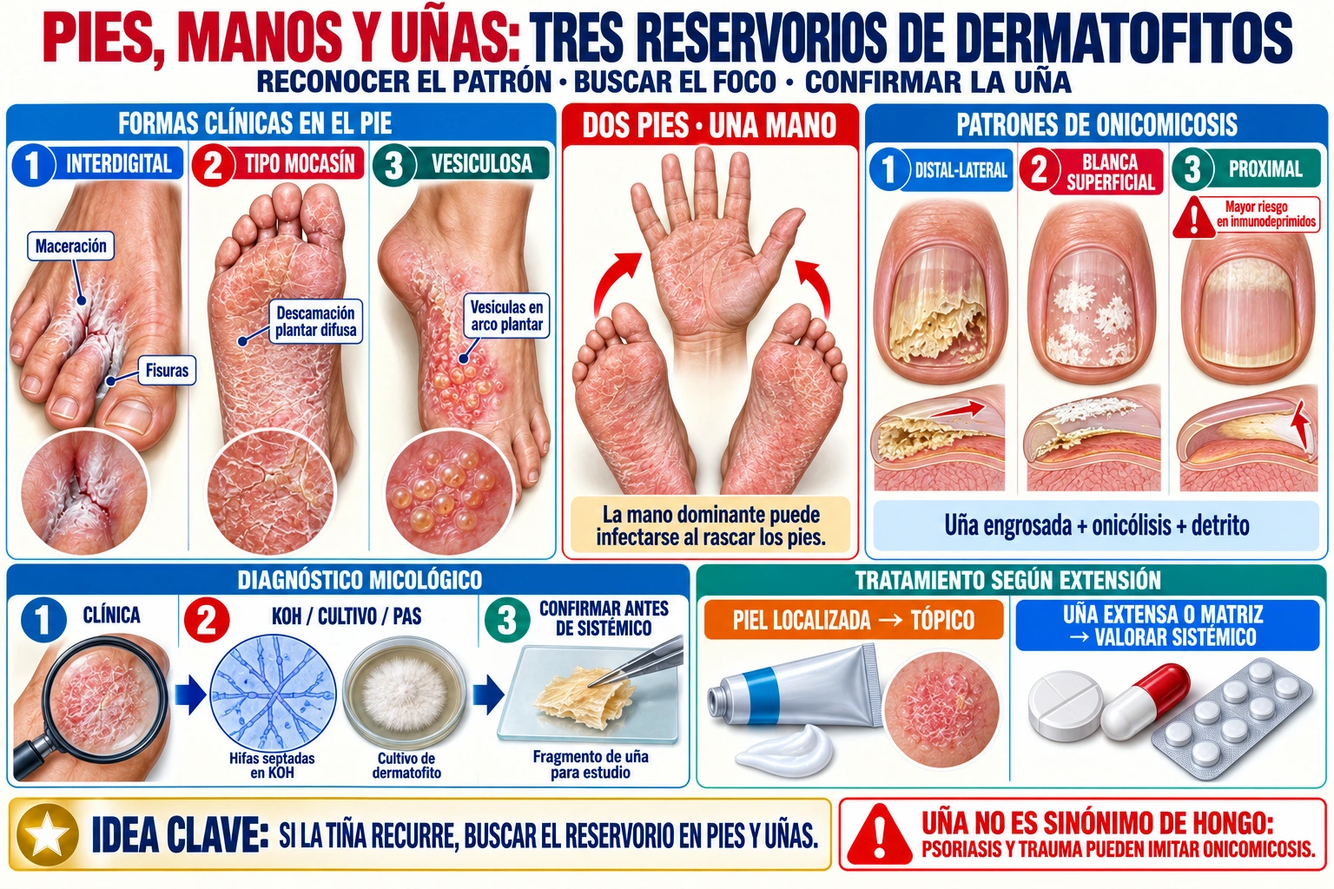
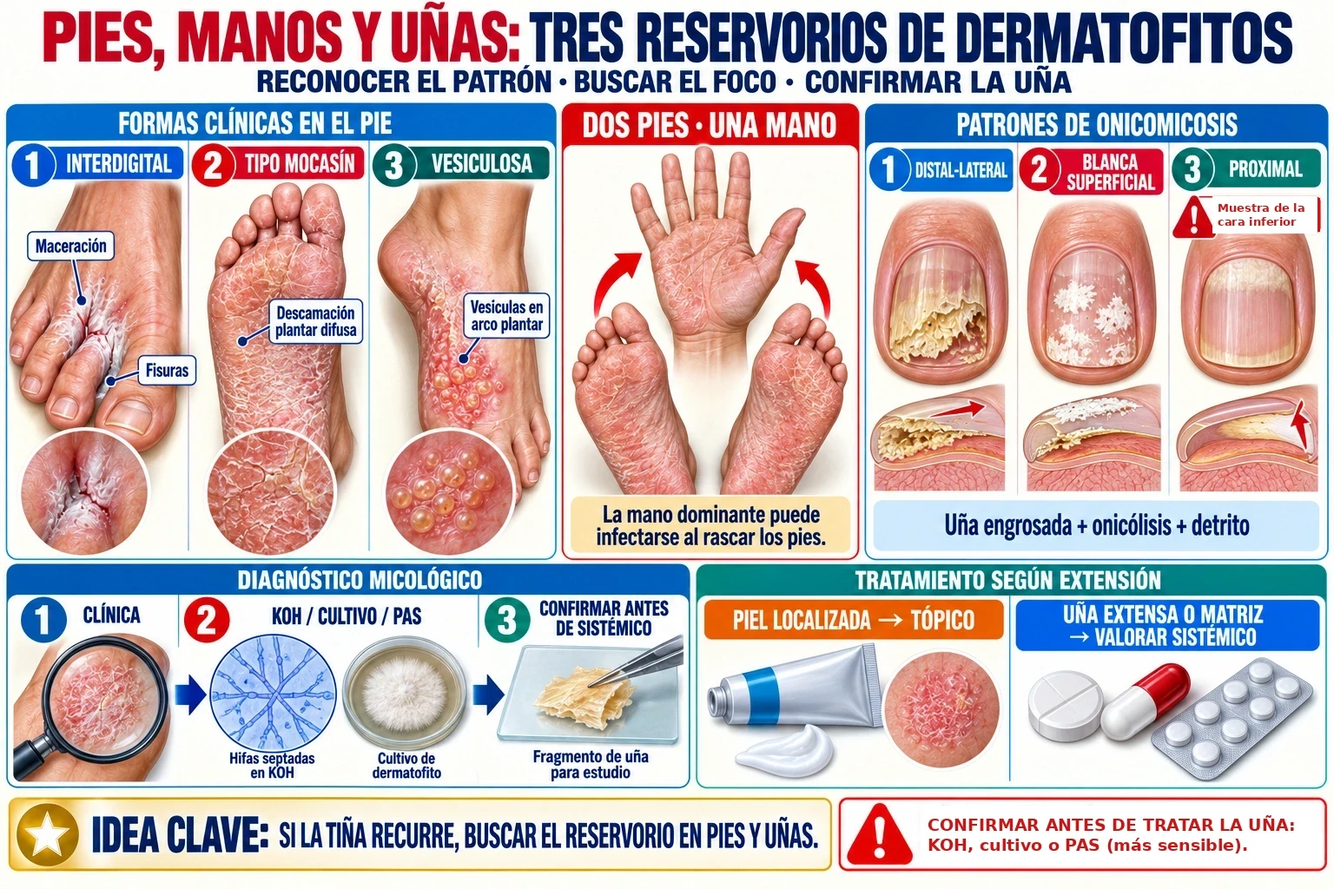
Dermatología: figuras 18, 19 e 01-09 só com conteúdo útil e com fonte; abertura sem ordem de estudo
Imagem 19 sem texto de disponibilidade de fonte; imagem 18: dois recuadros sem fonte trocados por
conteúdo do Atlas (amostra proximal; confirmar com KOH/cultivo/PAS); 01-09: Wood verdosa e
amarillo-anaranjado; legendas neutras; «Hebra» retirado; abertura e caixas «Puntos a dominar» sem
orientação de estudo.

Claude-Session: https://claude.ai/code/session_01DevSfM7zdgXiapR5wFfV6N

diff --git a/Repasso-Med-Site--main/Atual - Copia/netlify/functions/materias-privadas/dermatologia.html b/Repasso-Med-Site--main/Atual - Copia/netlify/functions/materias-privadas/dermatologia.html
@@ -59,27 +59,26 @@
      <b>una capa determinada a una altura determinada</b>, y esa rotura es lo que después se ve
      como una lesión: una mácula, una pápula, una ampolla. Si uno sabe qué capa está afectada,
      sabe qué lesión esperar; y si sabe leer la lesión, recorre el camino al revés y dice qué capa
-     se rompió. Por eso la anatomía va primero: no es un trámite, es <b>la clave de lectura</b> de
+     se rompió. Por eso la anatomía es <b>la clave de lectura</b> de
      todo lo que viene después.</p>
 </div>
 
 
 <div class="rmc-detalle">
-<h3>1 · Por qué esta materia se aprende al revés</h3>
+<h3>1 · La piel se lee: de la lesión al diagnóstico</h3>
 
 <p>La <b>dermatología</b> estudia la estructura y la función de la <b>piel, el cabello, las uñas y
 las mucosas</b>, y las enfermedades que las afectan. Lo que la vuelve distinta de todas las demás
 especialidades es una sola cosa: <b>el órgano enfermo está a la vista</b>.</p>
 
-<p>No hay que imaginarse el hígado a partir de una transaminasa. El órgano está ahí, iluminado, y se puede tocar: la piel no se ausculta, <b>se lee</b>, y lo que se lee no son enfermedades sino lesiones. Eso cambia el orden en que conviene estudiar, y hay una frase clásica que lo dice
-mejor que cualquier explicación:</p>
+<p>No hay que imaginarse el hígado a partir de una transaminasa. El órgano está ahí, iluminado, y se puede tocar: la piel no se ausculta, <b>se lee</b>, y lo que se lee no son enfermedades sino lesiones. De ahí una frase clásica que lo resume:</p>
 
 <blockquote><p><i>«Quien estudie las enfermedades de la piel y no estudie primero la lesión nunca
 aprenderá dermatología.»</i> — Hermann Werner Siemens (1891-1969)</p></blockquote>
 
 <p>Se describen unas <b>cuatro mil</b> enfermedades de la piel. Se describen con apenas
 <b>treinta</b> <span class="rmc-gl" onclick="var o=this.classList.contains('on');document.querySelectorAll('#tab-derma .rmc-gl.on').forEach(function(e){e.classList.remove('on')});if(!o)this.classList.add('on')">lesiones elementales<b>?</b><i onclick="event.stopPropagation()"><b>Lesión elemental</b>La unidad mínima con la que se describe cualquier enfermedad de la piel. Es al diagnóstico dermatológico lo que la letra es a la palabra: <b>no se puede leer sin conocerla</b>.<span class="rmc-gl-close">tocá la palabra para cerrar</span></i></span>.
-Por eso la inversión rinde tanto: quien domina treinta palabras puede describir cualquier cuadro
+Por eso describir bien la lesión rinde tanto: quien domina treinta palabras puede describir cualquier cuadro
 —incluso uno que nunca vio— y llegar solo a una lista corta de diagnósticos.</p>
 </div><!-- /rmc-detalle -->
 
@@ -291,7 +290,7 @@ y el nervio haga sudar las manos.</p>
 
 <div class="rmc-exam">
 <h4>Puntos a dominar de este bloque</h4>
-<p>Orden basado en el contenido desarrollado por la cátedra en la Unidad I y en el peso que cada tema tiene en la bibliografía de referencia.</p>
+<p>Los puntos que sostienen el bloque.</p>
 <div class="rmc-freq"><span>Los <b>cinco estratos</b> y qué contiene cada uno</span><span class="rmc-bar"><i style="width:100%"></i></span></div>
 <div class="rmc-freq"><span>Las <b>cuatro células</b>: proporción, capa y origen embrionario</span><span class="rmc-bar"><i style="width:96%"></i></span></div>
 <div class="rmc-freq"><span>Las <b>tres glándulas</b>: secreción, control y desembocadura</span><span class="rmc-bar"><i style="width:84%"></i></span></div>
@@ -445,7 +444,7 @@ y el nervio haga sudar las manos.</p>
 <p>30 tarjetas. Tocá cualquiera para abrir el modo juego.</p>
 <div class="fc-grid">
 <div class="flashcard"><div class="fc-front"><b>Dermatología</b></div><div class="fc-back">Especialidad que estudia la <b>estructura y función</b> de piel, cabellos, uñas y mucosas, y las enfermedades que las afectan, con su <b>prevención, diagnóstico y tratamiento</b>.</div></div>
-<div class="flashcard"><div class="fc-front"><b>La frase de Siemens</b></div><div class="fc-back">«Quien estudie las enfermedades de la piel y <b>no estudie primero la lesión</b> nunca aprenderá dermatología». Es el orden de estudio de toda la materia.</div></div>
+<div class="flashcard"><div class="fc-front"><b>La frase de Siemens</b></div><div class="fc-back">«Quien estudie las enfermedades de la piel y <b>no estudie primero la lesión</b> nunca aprenderá dermatología».</div></div>
 <div class="flashcard"><div class="fc-front"><b>La piel en números</b></div><div class="fc-back"><b>15 %</b> del peso corporal · <b>1,8 m²</b> de superficie · <b>3</b> capas independientes. Es el órgano más extenso del cuerpo.</div></div>
 <div class="flashcard"><div class="fc-front"><b>Las 5 funciones de la piel</b></div><div class="fc-back"><b>Protección</b> frente a agresiones externas · <b>Termorregulación</b> · <b>Impermeabilización</b> · producción de <b>vitamina D</b> · detección de <b>estímulos sensoriales</b>.</div></div>
 <div class="flashcard"><div class="fc-front"><b>Las 3 capas y su origen</b></div><div class="fc-back"><b>Epidermis</b> = ectodermo, avascular · <b>Dermis</b> = mesodermo, vascularizada · <b>Hipodermis</b> = tejido graso en lóbulos.</div></div>
@@ -898,7 +897,7 @@ segundo tiempo del raspado: cambia la transliteración del apellido, no el halla
 
 <div class="rmc-exam">
 <h4>Puntos a dominar de este bloque</h4>
-<p>Orden basado en el contenido desarrollado por la cátedra en la Unidad I y en el peso que cada tema tiene en la bibliografía de referencia.</p>
+<p>Los puntos que sostienen el bloque.</p>
 <div class="rmc-freq"><span>Las <b>lesiones primarias</b>: tamaño, topografía y contenido</span><span class="rmc-bar"><i style="width:100%"></i></span></div>
 <div class="rmc-freq"><span>Diferenciar <b>erosión y úlcera</b>, y <b>pápula, placa y nódulo</b></span><span class="rmc-bar"><i style="width:94%"></i></span></div>
 <div class="rmc-freq"><span>Las <b>lesiones secundarias</b> y qué deja cicatriz</span><span class="rmc-bar"><i style="width:86%"></i></span></div>
@@ -1278,7 +1277,7 @@ consultorio</b>, no en el laboratorio. El material de la cátedra enumera <b>cua
 <p>Lo que ordena todo el grupo es una sola distinción: <b>qué orienta y qué confirma</b>.</p>
 </div><!-- /rmc-detalle -->
 
-<figure class="rmc-fig"><div class="rmc-zoom"><img class="rmc-photo" src="/assets/img/derma/bloco-01-09-recursos-diagnosticos.webp" alt="Infografía titulada «Recursos diagnósticos: qué aporta cada uno». Seis tarjetas. Lupa, que amplía superficie, escamas y galerías. Diascopia, presión con vidrio, donde blanquear significa eritema y no blanquear significa púrpura, con dos fotos comparativas. Luz de Wood, ultravioleta A de onda larga, con los colores de fluorescencia: dermatofitosis del pelo con fluorescencia verde o amarillenta en la base del cabello, eritrasma rojo coral, pitiriasis versicolor amarillo-anaranjado y vitíligo blanco azulado intenso, más la advertencia de que no todas las tiñas fluorescen. Dermatoscopia, no invasiva, que muestra estructuras pigmentadas y vasculares y mejora la evaluación del melanoma. Raspado más hidróxido de potasio, que muestra hifas o levaduras y apoya el diagnóstico de micosis. Y biopsia con histopatología, que confirma neoplasias cutáneas y define profundidad y patrón. Una franja inferior separa los métodos que orientan de la biopsia, que confirma malignidad. Cierra una banda con la clave: la dermatoscopia orienta y la histología confirma el cáncer cutáneo." loading="lazy" decoding="async" width="1536" height="1024"></div><p class="rmc-hint">🔍 tocá la figura y ampliá con dos dedos para leer los rótulos</p><figcaption><b>Cómo leer la figura:</b> la franja de abajo es la que ordena todo: cinco métodos <b>orientan</b> y uno solo <b>confirma</b>. Las dos tarjetas de la derecha —raspado con KOH y biopsia— son un agregado de la literatura: no están en la lista de la cátedra, que enumera cuatro recursos, pero son las que se usan de verdad. Y leé la letra chica de la luz de Wood: <b>no todas las tiñas fluorescen</b>, así que un Wood negativo no descarta una micosis. <em>Sobre los colores:</em> el slide de la cátedra describe la fluorescencia de la pitiriasis versicolor como amarillo-anaranjada (la figura dice «amarillo cobrizo»), y el Atlas describe fluorescencia verdosa en los cabellos con <em>Microsporum</em> y rojo coral en el eritrasma; en el texto se usan los términos del slide y del Atlas.</figcaption></figure>
+<figure class="rmc-fig"><div class="rmc-zoom"><img class="rmc-photo" src="/assets/img/derma/bloco-01-09-recursos-diagnosticos.webp" alt="Infografía titulada «Recursos diagnósticos: qué aporta cada uno». Seis tarjetas. Lupa, que amplía superficie, escamas y galerías. Diascopia, presión con vidrio, donde blanquear significa eritema y no blanquear significa púrpura, con dos fotos comparativas. Luz de Wood, ultravioleta A de onda larga, con los colores de fluorescencia: dermatofitosis del pelo con fluorescencia verde o amarillenta en la base del cabello, eritrasma rojo coral, pitiriasis versicolor amarillo-anaranjado y vitíligo blanco azulado intenso, más la advertencia de que no todas las tiñas fluorescen. Dermatoscopia, no invasiva, que muestra estructuras pigmentadas y vasculares y mejora la evaluación del melanoma. Raspado más hidróxido de potasio, que muestra hifas o levaduras y apoya el diagnóstico de micosis. Y biopsia con histopatología, que confirma neoplasias cutáneas y define profundidad y patrón. Una franja inferior separa los métodos que orientan de la biopsia, que confirma malignidad. Cierra una banda con la clave: la dermatoscopia orienta y la histología confirma el cáncer cutáneo." loading="lazy" decoding="async" width="1536" height="1024"></div><p class="rmc-hint">🔍 tocá la figura y ampliá con dos dedos para leer los rótulos</p><figcaption><b>Cómo leer la figura:</b> la franja de abajo es la que ordena todo: cinco métodos <b>orientan</b> y uno solo <b>confirma</b>. Las dos tarjetas de la derecha completan el panorama: el raspado con KOH muestra hifas o levaduras y apoya el diagnóstico de una micosis, y la biopsia con histopatología confirma la malignidad. Y leé la letra chica de la luz de Wood: <b>no todas las tiñas fluorescen</b>, así que un Wood negativo no descarta una micosis. Los colores son verdosos en los cabellos con <em>Microsporum</em>, rojo coral en el eritrasma y amarillo-anaranjado en la pitiriasis versicolor.</figcaption></figure>
 
 <div class="rmc-detalle">
 <p>De los seis, el que tiene más detalle técnico es la <b>luz de Wood</b>, y conviene conocerla por dos lados: <b>de qué está hecho el aparato</b> y <b>qué color da cada cosa</b>.</p>
@@ -1465,7 +1464,7 @@ de luz</b>, <b>crioterapia y electrocirugía</b> y <b>radioterapia dermatológic
 
 <div class="rmc-exam">
 <h4>Puntos a dominar de este bloque</h4>
-<p>Orden basado en el contenido desarrollado por la cátedra en la Unidad I y en el peso que cada tema tiene en la bibliografía de referencia.</p>
+<p>Los puntos que sostienen el bloque.</p>
 <div class="rmc-freq"><span>El <b>vehículo</b> según el estado de la lesión y la zona</span><span class="rmc-bar"><i style="width:100%"></i></span></div>
 <div class="rmc-freq"><span><b>Luz de Wood</b>: el aparato, el filtro y los cuatro colores</span><span class="rmc-bar"><i style="width:92%"></i></span></div>
 <div class="rmc-freq"><span>Los <b>cuatro caminos</b> del tratamiento</span><span class="rmc-bar"><i style="width:84%"></i></span></div>
@@ -1969,8 +1968,7 @@ incluso sin el antecedente epidemiológico.
 
 <div class="rmc-exam">
 <h4>Puntos a dominar de este bloque</h4>
-<p>Orden basado en el contenido desarrollado por la cátedra en la
-Unidad II y en el peso que cada tema tiene en la bibliografía de referencia.</p>
+<p>Los puntos que sostienen el bloque.</p>
 <div class="rmc-freq"><span>El <b>surco acarino</b> y el prurito de predominio nocturno</span><span class="rmc-bar"><i style="width:100%"></i></span></div>
 <div class="rmc-freq"><span><b>Sarna costrosa</b>: poco prurito, altísimo contagio</span><span class="rmc-bar"><i style="width:92%"></i></span></div>
 <div class="rmc-freq"><span>Distribución del adulto <b>frente a</b> la del lactante</span><span class="rmc-bar"><i style="width:84%"></i></span></div>
@@ -2438,8 +2436,7 @@ el curso de la enfermedad más que muchos tratamientos.</p>
 
 <div class="rmc-exam">
 <h4>Puntos a dominar de este bloque</h4>
-<p>Orden basado en el contenido desarrollado por la cátedra en la
-Unidad II y en el peso que cada tema tiene en la bibliografía de referencia.</p>
+<p>Los puntos que sostienen el bloque.</p>
 <div class="rmc-freq"><span><b>Erisipela vs celulitis</b>: el borde y la profundidad</span><span class="rmc-bar"><i style="width:100%"></i></span></div>
 <div class="rmc-freq"><span><b>Costra melicérica</b> = impétigo no ampolloso</span><span class="rmc-bar"><i style="width:94%"></i></span></div>
 <div class="rmc-freq"><span><b>Ántrax vs carbunco</b>: la confusión de vocabulario</span><span class="rmc-bar"><i style="width:82%"></i></span></div>
@@ -2728,7 +2725,7 @@ porque cambia la piel donde caen.</p>
 <tr><th>Corporis</th><td>Tronco y miembros</td>
     <td><b>Herpes circinado</b>: anillo con borde activo y centro claro</td></tr>
 <tr><th>Cruris</th><td>Ingle y raíz del muslo (rara vez el escroto y el pene)</td>
-    <td><b>Eccema marginado de Hebra</b>: placa con borde activo y centro despejado</td></tr>
+    <td>Placa con <b>borde activo</b> y centro despejado</td></tr>
 <tr><th>Pedis</th><td>Pie</td>
     <td>Tres formas clásicas: <b>interdigital</b>, en <b>mocasín</b> y vesicular (la ulcerosa es una extensión de la interdigital)</td></tr>
 <tr><th>Manuum</th><td>Mano</td>
@@ -2744,7 +2741,7 @@ mucho — la infección suele empezar en los pies y se disemina a la mano.</p>
 
 <figure class="rmc-fig"><div class="rmc-zoom"><img class="rmc-photo" src="/assets/img/derma/17-tinas-localizacion.webp" alt="Infografía de las tiñas según su localización: tiña corporal, tiña de pliegues, tiña de la barba y tiña incógnita por corticoide, con el crecimiento hacia afuera del dermatofito, la toma de muestra del borde activo, el examen directo con KOH y el tratamiento según la extensión." loading="lazy" decoding="async"></div><figcaption>Recorré la figura buscando el <b>borde activo</b> en cada dibujo: está en todas. Lo que cambia es la piel donde cae, no el hongo.</figcaption></figure>
 
-<figure class="rmc-fig"><div class="rmc-zoom"><img class="rmc-photo" src="/assets/img/derma/18-pies-manos-unas-dermatofitos.webp" alt="Infografía de la tiña del pie en sus formas interdigital, en mocasín y vesiculoampollosa, el patrón dos pies una mano de la tiña manuum, y los patrones de onicomicosis con onicólisis e hiperqueratosis subungueal." loading="lazy" decoding="async"></div><figcaption>La forma <b>en mocasín</b> se confunde fácilmente con piel seca (o con psoriasis y dermatitis eccematosa): fijate en la descamación fina que cubre planta y bordes laterales, como un zapato.</figcaption></figure>
+<figure class="rmc-fig"><div class="rmc-zoom"><img class="rmc-photo" src="/assets/img/derma/18-pies-manos-unas-dermatofitos.webp" alt="Infografía de la tiña del pie en sus formas interdigital, en mocasín y vesiculoampollosa, el patrón dos pies una mano de la tiña manuum, y los patrones de onicomicosis con onicólisis e hiperqueratosis subungueal." loading="lazy" decoding="async"></div><figcaption>La forma <b>en mocasín</b> se confunde fácilmente con piel seca (o con psoriasis y dermatitis eccematosa): fijate en la descamación fina que cubre planta y bordes laterales, como un zapato. En la uña, antes de tratar se confirma con KOH, cultivo o PAS; el PAS es más sensible en la forma distal y lateral. Si el hongo vuelve a aparecer en la piel, conviene buscar el reservorio en los pies y las uñas.</figcaption></figure>
 
 <div class="rmc-detalle">
 <h3>3 · Tiña capitis: la del cuero cabelludo</h3>
@@ -2769,7 +2766,7 @@ engaña porque parece un absceso; por eso se confirma con <b>examen micológico 
 <p>La <b>luz de Wood</b> ayuda, con una salvedad importante: puede verse fluorescencia verdosa en los pelos infectados por <i>Microsporum</i>, pero <b>no todas las tiñas fluorescen</b>: <i>T. tonsurans</i>, la causa de alrededor del 90 % de las tiñas capitis en EE. UU. y Europa occidental, no fluoresce. <b>Un Wood negativo no descarta tiña capitis.</b></p>
 </div>
 
-<figure class="rmc-fig"><div class="rmc-zoom"><img class="rmc-photo" src="/assets/img/derma/16-tina-capitis-patrones.webp" alt="Infografía de los patrones de tiña capitis: forma no inflamatoria microspórica con placa única y pelos cortados, forma tricofítica con puntos negros, y querión de Celso como masa inflamatoria supurativa, con la respuesta a la luz de Wood." loading="lazy" decoding="async"></div><figcaption>Compará las dos primeras columnas con la tercera: el patrón depende de la especie y, sobre todo, de la <b>respuesta inflamatoria</b> del huésped. El querión es la forma más inflamatoria. <em>Sobre la figura:</em> la versión original traía dos recuadros sin respaldo en el Atlas ni en los slides —«no incidir ni drenar» y un champú antifúngico que «reduce contagio»—; se reemplazaron. Lo que el Atlas describe para el querión es la confirmación con KOH y cultivo (micológico y bacteriano), el tratamiento con antimicóticos generales (en el caso ilustrado, terbinafina oral durante cuatro semanas) y que, sin tratar —sobre todo si se sobreinfecta—, deja alopecia cicatrizal; con tratamiento, la recuperación del cabello es la regla.</figcaption></figure>
+<figure class="rmc-fig"><div class="rmc-zoom"><img class="rmc-photo" src="/assets/img/derma/16-tina-capitis-patrones.webp" alt="Infografía de los patrones de tiña capitis: forma no inflamatoria microspórica con placa única y pelos cortados, forma tricofítica con puntos negros, y querión de Celso como masa inflamatoria supurativa, con la respuesta a la luz de Wood." loading="lazy" decoding="async"></div><figcaption>Compará las dos primeras columnas con la tercera: el patrón depende de la especie y, sobre todo, de la <b>respuesta inflamatoria</b> del huésped. El querión es la forma más inflamatoria: se confirma con KOH y cultivo (micológico y bacteriano) y se trata con <b>antimicóticos sistémicos</b> —en el caso ilustrado en el Atlas, terbinafina oral durante cuatro semanas—. Si no se trata, sobre todo si se sobreinfecta, deja <b>alopecia cicatrizal</b>; con tratamiento, lo habitual es que el pelo vuelva a crecer. Como la crema no llega bien al tallo del pelo, en el pelo el tratamiento suele ser oral.</figcaption></figure>
 
 <div class="key-box exam">
 <b>La regla que ordena el tratamiento.</b> Micosis de <b>piel</b>: tratamiento
@@ -2807,12 +2804,11 @@ el tratamiento falló.</p>
 <p>El tratamiento es tópico cuando está localizada —<b>sulfuro de selenio</b> al 2,5 % o champú de <b>ketoconazol</b> al 2 %— y, si es extensa o recurrente, un azol oral (ketoconazol, itraconazol o fluconazol). La terbinafina oral no se recomienda, porque alcanza poca concentración en el estrato córneo. Como tiende a recidivar con el calor, a veces se indica un tratamiento preventivo una vez por mes.</p>
 </div>
 
-<figure class="rmc-fig"><div class="rmc-zoom"><img class="rmc-photo" src="/assets/img/derma/19-micosis-superficiales-piel-pelo.webp" alt="Infografía de las micosis superficiales de piel y tallo piloso: tiña negra (mácula marrón-negra en palma o planta), piedra blanca (nódulos claros en el pelo, Trichosporon) y piedra negra (nódulos oscuros en el pelo), con su diagnóstico por KOH." loading="lazy" decoding="async"></div><figcaption>La figura separa lo que queda <b>en la piel</b> (tiña negra: mácula marrón-negra, sin inflamación, en palma o planta) de lo que se adhiere <b>al pelo</b> (piedras blanca y negra). <em>Sobre la figura:</em> la versión original traía una conducta de tratamiento y una advertencia que no figuran en los slides de la cátedra ni en el Fitzpatrick consultado; se retiraron. El tratamiento de estas micosis no está desarrollado en esas fuentes. La pitiriasis versicolor se explica aparte, en este mismo bloque.</figcaption></figure>
+<figure class="rmc-fig"><div class="rmc-zoom"><img class="rmc-photo" src="/assets/img/derma/19-micosis-superficiales-piel-pelo.webp" alt="Infografía de las micosis superficiales de piel y tallo piloso: tiña negra (mácula marrón-negra en palma o planta), piedra blanca (nódulos claros en el pelo, Trichosporon) y piedra negra (nódulos oscuros en el pelo), con su diagnóstico por KOH." loading="lazy" decoding="async"></div><figcaption>La figura separa lo que queda <b>en la piel</b> (tiña negra, por <i>Hortaea werneckii</i>: mácula marrón-negra en palma o planta, sin inflamación) de lo que se adhiere <b>al pelo</b> (piedra blanca, por <i>Trichosporon</i>, y piedra negra). Todas son micosis superficiales: colonizan las capas más externas, queratinizadas, de piel y pelo, con poca o ninguna inflamación. La pitiriasis versicolor se explica aparte, en este mismo bloque.</figcaption></figure>
 
 <div class="rmc-exam">
 <h4>Puntos a dominar de este bloque</h4>
-<p>Orden basado en el contenido desarrollado por la cátedra y en el peso
-que cada tema tiene en la bibliografía de referencia.</p>
+<p>Los puntos que sostienen el bloque.</p>
 <div class="rmc-freq"><span><b>Pelo o uña</b> → el tratamiento suele ser oral</span><span class="rmc-bar"><i style="width:100%"></i></span></div>
 <div class="rmc-freq"><span>La muestra se toma del <b>borde activo</b>, no del centro</span><span class="rmc-bar"><i style="width:90%"></i></span></div>
 <div class="rmc-freq"><span><b>Querión</b>: confirmar con KOH y cultivo; el tratamiento es antifúngico sistémico</span><span class="rmc-bar"><i style="width:80%"></i></span></div>
@@ -2918,7 +2914,7 @@ descamación</b> y con bordes distintos.</p>
 <div class="flashcard"><div class="fc-front"><b>¿De dónde se toma la muestra?</b></div><div class="fc-back">Del <b>borde activo</b>. En el centro ya no hay hongo y el KOH sale negativo.</div></div>
 <div class="flashcard"><div class="fc-front"><b>Tres causas de KOH falso negativo</b></div><div class="fc-back">Muestra del <b>centro</b> · antifúngico previo · muestra escasa.</div></div>
 <div class="flashcard"><div class="fc-front"><b>Herpes circinado</b></div><div class="fc-back">Otro nombre de la <b>tiña corporis</b>. No tiene relación con el virus del herpes.</div></div>
-<div class="flashcard"><div class="fc-front"><b>Eccema marginado de Hebra</b></div><div class="fc-back"><b>Tiña cruris</b>. Ingle y raíz del muslo, con borde activo.</div></div>
+<div class="flashcard"><div class="fc-front"><b>Tiña cruris</b></div><div class="fc-back">Ingle y raíz del muslo, con <b>borde activo</b> y centro despejado.</div></div>
 <div class="flashcard"><div class="fc-front"><b>Intertrigo inguinal: ¿tiña o candidiasis?</b></div><div class="fc-back">Orientan a <b>candidiasis</b> las <b>lesiones satélite</b> y el fondo del pliegue tomado. Se confirma con KOH.</div></div>
 <div class="flashcard"><div class="fc-front"><b>Las tres formas de tiña pedis</b></div><div class="fc-back"><b>Interdigital</b> · en <b>mocasín</b> · vesiculoampollosa. (La ulcerosa es una extensión de la interdigital.)</div></div>
 <div class="flashcard"><div class="fc-front"><b>«Dos pies, una mano»</b></div><div class="fc-back">Patrón típico de la <b>tiña manuum</b>: una mano (a menudo la dominante) + ambos pies. La infección suele partir de los pies y diseminarse a la mano.</div></div>
@@ -3105,8 +3101,7 @@ se corrige es la condición que la dejó crecer.</p>
 
 <div class="rmc-exam">
 <h4>Puntos a dominar de este bloque</h4>
-<p>Orden basado en el contenido desarrollado por la cátedra y en el peso
-que cada tema tiene en la bibliografía de referencia.</p>
+<p>Los puntos que sostienen el bloque.</p>
 <div class="rmc-freq"><span><b>Lesiones satélite</b> y fondo del pliegue = <i>Candida</i></span><span class="rmc-bar"><i style="width:100%"></i></span></div>
 <div class="rmc-freq"><span>El muguet <b>se desprende</b> al raspar; la leucoplasia no</span><span class="rmc-bar"><i style="width:92%"></i></span></div>
 <div class="rmc-freq"><span>Los <b>factores predisponentes</b>, agrupados por mecanismo</span><span class="rmc-bar"><i style="width:84%"></i></span></div>
@@ -3397,8 +3392,7 @@ Segunda: la <b>isotretinoína</b> exige anticoncepción y prueba de embarazo, y
 
 <div class="rmc-exam">
 <h4>Puntos a dominar de este bloque</h4>
-<p>Orden basado en el contenido desarrollado por la cátedra y en el peso
-que cada tema tiene en la bibliografía de referencia.</p>
+<p>Los puntos que sostienen el bloque.</p>
 <div class="rmc-freq"><span>El <b>comedón</b> define el acné; su ausencia cambia el diagnóstico</span><span class="rmc-bar"><i style="width:100%"></i></span></div>
 <div class="rmc-freq"><span>Los <b>cuatro mecanismos en orden</b> y qué fármaco toca cada uno</span><span class="rmc-bar"><i style="width:90%"></i></span></div>
 <div class="rmc-freq"><span><b>Isotretinoína</b>: teratogenia y la contraindicación con tetraciclinas</span><span class="rmc-bar"><i style="width:82%"></i></span></div>
@@ -3712,8 +3706,7 @@ mononucleosis por EBV <b>no es alergia</b> a la penicilina.
 
 <div class="rmc-exam">
 <h4>Puntos a dominar de este bloque</h4>
-<p>Orden basado en el contenido desarrollado por la cátedra y en el peso
-que cada tema tiene en la bibliografía de referencia.</p>
+<p>Los puntos que sostienen el bloque.</p>
 <div class="rmc-freq"><span><b>Manchas de Koplik</b>: previas y exclusivas del sarampión</span><span class="rmc-bar"><i style="width:100%"></i></span></div>
 <div class="rmc-freq"><span><b>Exantema súbito</b>: brota cuando cede la fiebre</span><span class="rmc-bar"><i style="width:90%"></i></span></div>
 <div class="rmc-freq"><span>Zóster: <b>un dermatoma</b>, no cruza la línea media</span><span class="rmc-bar"><i style="width:84%"></i></span></div>
@@ -4014,8 +4007,7 @@ primaria</b> obliga a buscar causa sistémica.
 
 <div class="rmc-exam">
 <h4>Puntos a dominar de este bloque</h4>
-<p>Orden basado en el contenido desarrollado por la cátedra y en el peso
-que cada tema tiene en la bibliografía de referencia.</p>
+<p>Los puntos que sostienen el bloque.</p>
 <div class="rmc-freq"><span>Contacto <b>irritativa vs alérgica</b>: mecanismo y tiempo</span><span class="rmc-bar"><i style="width:100%"></i></span></div>
 <div class="rmc-freq"><span>Distribución de la atopia <b>por edad</b></span><span class="rmc-bar"><i style="width:92%"></i></span></div>
 <div class="rmc-freq"><span>El <b>emoliente</b> como tratamiento de base, siempre</span><span class="rmc-bar"><i style="width:80%"></i></span></div>
@@ -4292,8 +4284,7 @@ benigna — salvo que aparezcan muchas de golpe (<b>Leser-Trélat</b>). El
 
 <div class="rmc-exam">
 <h4>Puntos a dominar de este bloque</h4>
-<p>Orden basado en el contenido desarrollado por la cátedra y en el peso
-que cada tema tiene en la bibliografía de referencia.</p>
+<p>Los puntos que sostienen el bloque.</p>
 <div class="rmc-freq"><span><b>Signo del hoyuelo</b> = dermatofibroma</span><span class="rmc-bar"><i style="width:100%"></i></span></div>
 <div class="rmc-freq"><span>Queratosis seborreica: aspecto <b>«pegado»</b> y benignidad</span><span class="rmc-bar"><i style="width:90%"></i></span></div>
 <div class="rmc-freq"><span>Clasificación de los <b>nevos</b> por profundidad del nido</span><span class="rmc-bar"><i style="width:80%"></i></span></div>
@@ -4558,8 +4549,7 @@ actínica, y <b>sí puede metastatizar</b>, sobre todo en labio y oreja.
 
 <div class="rmc-exam">
 <h4>Puntos a dominar de este bloque</h4>
-<p>Orden basado en el contenido desarrollado por la cátedra y en el peso
-que cada tema tiene en la bibliografía de referencia.</p>
+<p>Los puntos que sostienen el bloque.</p>
 <div class="rmc-freq"><span><b>Basocelular vs espinocelular</b>: aspecto y metástasis</span><span class="rmc-bar"><i style="width:100%"></i></span></div>
 <div class="rmc-freq"><span><b>Borde perlado con telangiectasias</b> = basocelular</span><span class="rmc-bar"><i style="width:92%"></i></span></div>
 <div class="rmc-freq"><span><b>Queratosis actínica</b> como precursora del espinocelular</span><span class="rmc-bar"><i style="width:82%"></i></span></div>
@@ -4838,8 +4828,7 @@ para él está el <b>EFG</b>.
 
 <div class="rmc-exam">
 <h4>Puntos a dominar de este bloque</h4>
-<p>Orden basado en el contenido desarrollado por la cátedra y en el peso
-que cada tema tiene en la bibliografía de referencia.</p>
+<p>Los puntos que sostienen el bloque.</p>
 <div class="rmc-freq"><span><b>Breslow</b> como principal factor pronóstico</span><span class="rmc-bar"><i style="width:100%"></i></span></div>
 <div class="rmc-freq"><span>Biopsia <b>excisional</b>, nunca parcial</span><span class="rmc-bar"><i style="width:92%"></i></span></div>
 <div class="rmc-freq"><span>El <b>ABCDE</b> y por qué la <b>E</b> es la que más pesa</span><span class="rmc-bar"><i style="width:86%"></i></span></div>
@@ -4983,7 +4972,7 @@ Breslow se consideran la <b>ulceración</b> y el índice mitótico.</p>
 <h3>🎴 Mazo de la base · bloques 01 a 03, en orden</h3>
 <div class="fc-grid">
 <div class="flashcard"><div class="fc-front"><b>Dermatología</b></div><div class="fc-back">Especialidad que estudia la <b>estructura y función</b> de piel, cabellos, uñas y mucosas, y las enfermedades que las afectan, con su <b>prevención, diagnóstico y tratamiento</b>.</div></div>
-<div class="flashcard"><div class="fc-front"><b>La frase de Siemens</b></div><div class="fc-back">«Quien estudie las enfermedades de la piel y <b>no estudie primero la lesión</b> nunca aprenderá dermatología». Es el orden de estudio de toda la materia.</div></div>
+<div class="flashcard"><div class="fc-front"><b>La frase de Siemens</b></div><div class="fc-back">«Quien estudie las enfermedades de la piel y <b>no estudie primero la lesión</b> nunca aprenderá dermatología».</div></div>
 <div class="flashcard"><div class="fc-front"><b>La piel en números</b></div><div class="fc-back"><b>15 %</b> del peso corporal · <b>1,8 m²</b> de superficie · <b>3</b> capas independientes. Es el órgano más extenso del cuerpo.</div></div>
 <div class="flashcard"><div class="fc-front"><b>Las 5 funciones de la piel</b></div><div class="fc-back"><b>Protección</b> frente a agresiones externas · <b>Termorregulación</b> · <b>Impermeabilización</b> · producción de <b>vitamina D</b> · detección de <b>estímulos sensoriales</b>.</div></div>
 <div class="flashcard"><div class="fc-front"><b>Las 3 capas y su origen</b></div><div class="fc-back"><b>Epidermis</b> = ectodermo, avascular · <b>Dermis</b> = mesodermo, vascularizada · <b>Hipodermis</b> = tejido graso en lóbulos.</div></div>
@@ -5081,7 +5070,7 @@ Breslow se consideran la <b>ulceración</b> y el índice mitótico.</p>
 <h3>🎲 Ruleta · las mismas 94 tarjetas, barajadas</h3>
 <div class="fc-grid" data-shuffle="1">
 <div class="flashcard"><div class="fc-front"><b>Dermatología</b></div><div class="fc-back">Especialidad que estudia la <b>estructura y función</b> de piel, cabellos, uñas y mucosas, y las enfermedades que las afectan, con su <b>prevención, diagnóstico y tratamiento</b>.</div></div>
-<div class="flashcard"><div class="fc-front"><b>La frase de Siemens</b></div><div class="fc-back">«Quien estudie las enfermedades de la piel y <b>no estudie primero la lesión</b> nunca aprenderá dermatología». Es el orden de estudio de toda la materia.</div></div>
+<div class="flashcard"><div class="fc-front"><b>La frase de Siemens</b></div><div class="fc-back">«Quien estudie las enfermedades de la piel y <b>no estudie primero la lesión</b> nunca aprenderá dermatología».</div></div>
 <div class="flashcard"><div class="fc-front"><b>La piel en números</b></div><div class="fc-back"><b>15 %</b> del peso corporal · <b>1,8 m²</b> de superficie · <b>3</b> capas independientes. Es el órgano más extenso del cuerpo.</div></div>
 <div class="flashcard"><div class="fc-front"><b>Las 5 funciones de la piel</b></div><div class="fc-back"><b>Protección</b> frente a agresiones externas · <b>Termorregulación</b> · <b>Impermeabilización</b> · producción de <b>vitamina D</b> · detección de <b>estímulos sensoriales</b>.</div></div>
 <div class="flashcard"><div class="fc-front"><b>Las 3 capas y su origen</b></div><div class="fc-back"><b>Epidermis</b> = ectodermo, avascular · <b>Dermis</b> = mesodermo, vascularizada · <b>Hipodermis</b> = tejido graso en lóbulos.</div></div>

diff --git a/coordination/source-packs/dermatologia-revisao-integral-2026-10-v1.md b/coordination/source-packs/dermatologia-revisao-integral-2026-10-v1.md
@@ -279,3 +279,28 @@ As imagens 16 e 19 foram editadas só nos recuadros indicados (retoque de texto;
 **Segue sem fonte permitida (lista curta):** (a) conduta «não drenar» o querión como regra explícita (a página só diz que o tratamento descrito é antifúngico sistémico); (b) os dois recuadros da figura 18 acima; (c) piedra negra/*Piedraia hortae* e a dermatoscopia da tiña negra na figura 19 (sem texto acessível no Drive); (d) «eccema marginado de Hebra».
 
 **Dados reais (SELECT somente leitura, 22/10):** `dermatologia` 0 grifos, 0 traços, 0 notas.
+
+## (xvii) Fechamento de 23/10 (3.ª rodada) — figuras 18 e 19, abertura e lista pendente
+
+**Imagem 19 (`micosis-superficiales`).** O painel «Tratamiento: no desarrollado en el material…» foi **retirado** (conversa sobre fonte não pertence à página do aluno). O painel agora traz só conteúdo útil e com fonte: «Tiña negra: *Hortaea werneckii* · Piedra blanca: *Trichosporon* · colonizam as capas mais externas, queratinizadas, de piel y pelo, con poca o ninguna inflamación» (guia de estudo do Drive «Questões P1»/«Final»; índice do Fitzpatrick). O rótulo «*Piedraia hortae*» virou «Piedra negra» (nome do agente sem fonte permitida). Legenda e texto alternativo reescritos sem nota de fonte.
+
+**Imagem 18 (`pies-manos-unas`) — os dois recuadros sem fonte**
+| recuadro | achado | decisão |
+|---|---|---|
+| «Proximal: mayor riesgo en inmunodeprimidos» | não consta no recorte do Fitzpatrick (pp. 607–627) nem nos slides | **trocado** por «Muestra de la cara inferior» (Atlas p. 609: na onicomicose subungueal proximal a amostra é a superfície inferior da placa) |
+| «Uña no es sinónimo de hongo: psoriasis y trauma pueden imitar onicomicosis» | não consta (o diferencial do Atlas nesse trecho é da tiña do pé) | **trocado** por «Confirmar antes de tratar la uña: KOH, cultivo o PAS (más sensible)» (Atlas p. 609: PAS/metenamina argéntica mais sensíveis que KOH/cultivo na DLSO) |
+
+**Imagem `bloco-01-09` (luz de Wood).** «Microsporum: verde manzana» → «verdosa» (Atlas p. 609/624: fluorescência verdosa; o rótulo «verde manzana» não tinha fonte) e «amarillo cobrizo» → «amarillo-anaranjado» (slide de pitiríase versicolor). Legenda sem a nota «Sobre los colores».
+
+**Imagem 16.** Legenda reescrita só com conteúdo (querión: KOH + cultura; antimicóticos sistêmicos; terbinafina 4 semanas no caso do Atlas; alopecia cicatrizal sem tratamento; crema não alcança o tallo do pelo).
+
+**Lista pendente anterior — resolução**
+1. *Conduta «no drenar» do querión:* **justificada** como o que a fonte descreve: Atlas p. 625 — o querión «não respondeu a antibióticos orais» e «se tratou satisfatoriamente com terbinafina oral»; o texto da página diz «el drenaje no forma parte de ese manejo» (afirma o que a fonte descreve, não uma proibição). Sem frase de proibição na página nem na imagem.
+2. *«Raspar sempre o borde»:* **justificada**: Atlas p. 618 (crescimento periférico, parte central indemne) + p. 609 (uso recente de creme dificulta o exame); a página diz «conviene» e não «siempre».
+3. *«Eccema marginado de Hebra»:* **retirado** do texto e do cartão (sem fonte permitida); o cartão passa a «Tiña cruris».
+4. *«Verde manzana» da figura 01-09:* corrigido (acima).
+5. *Piedra negra/*Piedraia hortae* e dermatoscopia da tiña negra (figura 19):* descrições morfológicas **sem fonte permitida localizável** (o Fitzpatrick completo não baixa >6 MB; o recorte não cobre esse capítulo); não há conduta clínica nelas; mantidas só as descrições visuais e o rótulo genérico. **Segue sem fonte.**
+
+**Abertura (bloco 01).** Retirada a orientação sobre ordem de estudo: título «Por qué esta materia se aprende al revés» → «La piel se lee: de la lesión al diagnóstico»; «Eso cambia el orden en que conviene estudiar…» → «De ahí una frase clásica que lo resume:»; «Por eso la anatomía va primero: no es un trámite…» → «Por eso la anatomía es la clave de lectura…»; «Por eso la inversión rinde tanto» → «describir bien la lesión rinde tanto»; cartão «La frase de Siemens» sem «Es el orden de estudio de toda la materia» (3 cópias). Nas 13 caixas «Puntos a dominar» saiu a linha «Orden basado en el contenido… y en el peso que cada tema tiene en la bibliografía» (estratégia editorial interna) → «Los puntos que sostienen el bloque.»
+
+**Dados reais (SELECT somente leitura, 23/10):** `dermatologia` 0 grifos, 0 traços, 0 notas.
